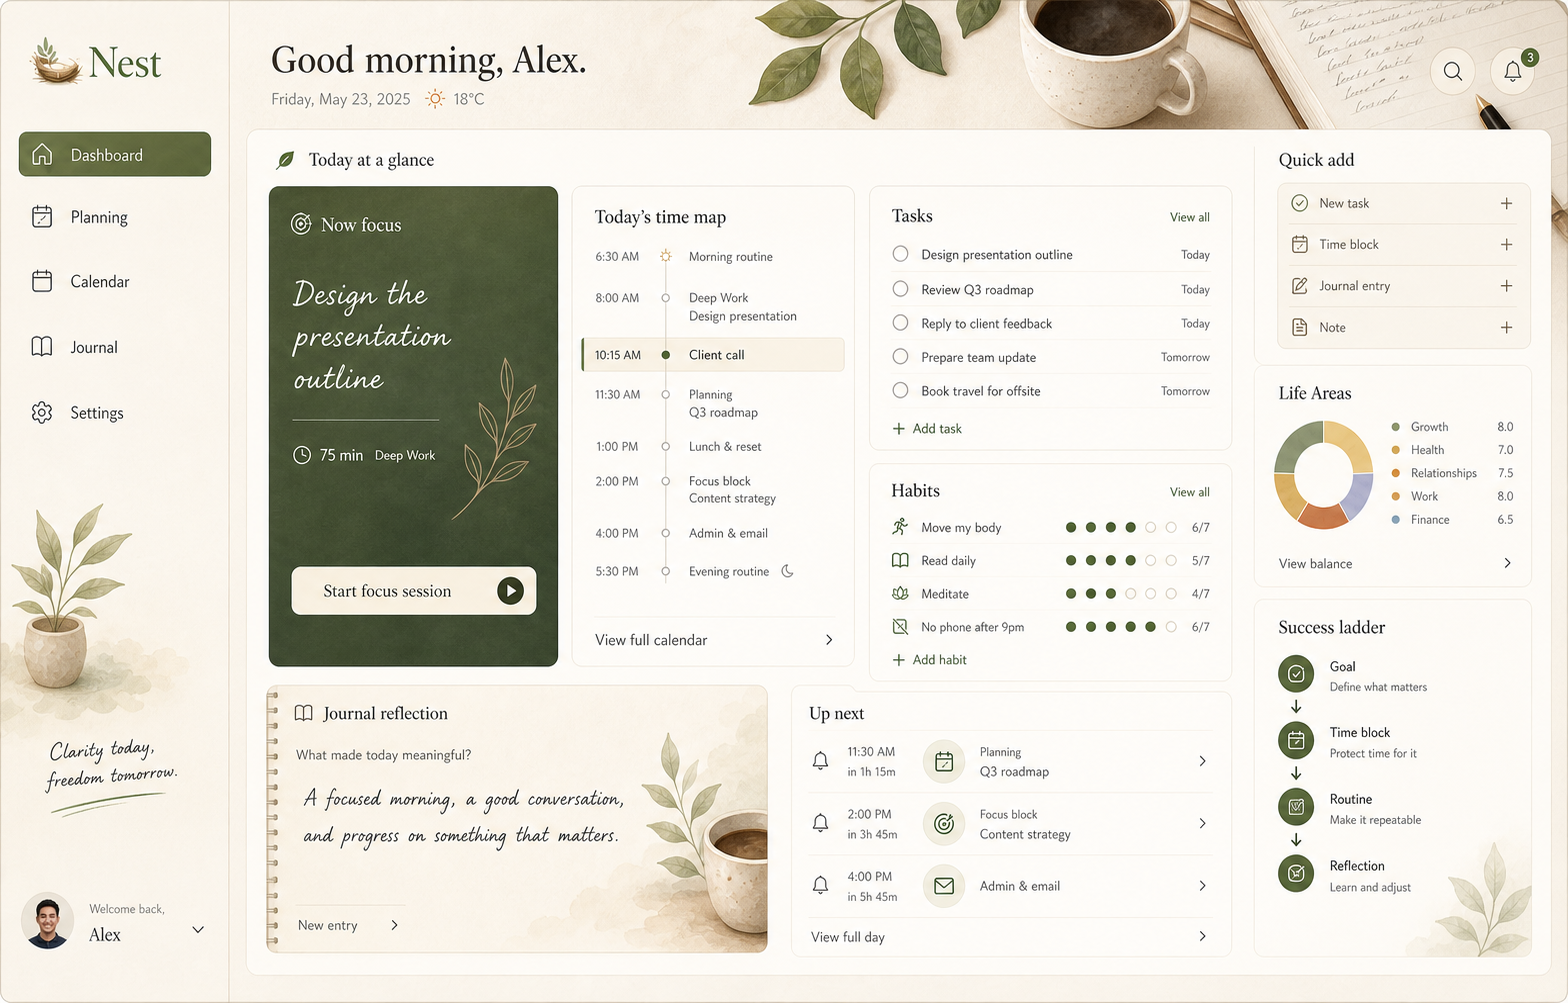
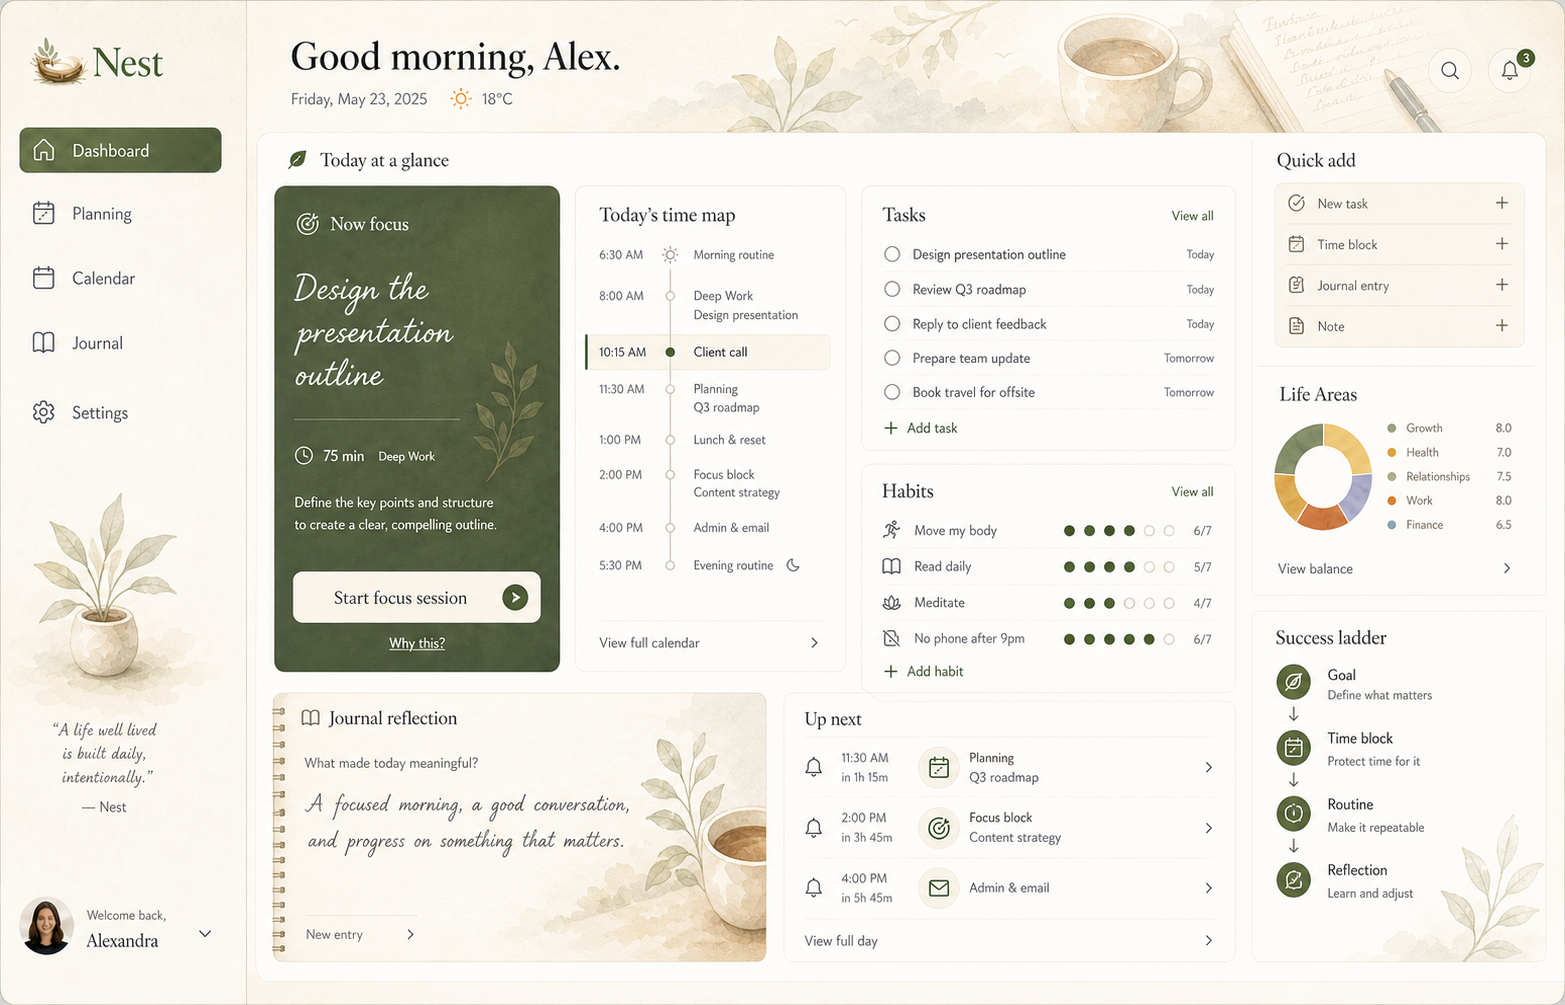
docs: refine dashboard desktop header art

diff --git a/docs/ux/nest_298_dashboard_desktop_header_watercolor_refinement_2026-05-02.md b/docs/ux/nest_298_dashboard_desktop_header_watercolor_refinement_2026-05-02.md
@@ -1,0 +1,56 @@
+# NEST-298 Dashboard Desktop Header Watercolor Refinement
+
+Date: 2026-05-02
+Stage: release
+Owner: Execution Agent
+
+## Context
+
+The corrected Dashboard desktop preview had the right layout, but the header
+art still felt too photographic. The user asked to preserve the composition and
+make the header/background image more delicate, closer to the supplied desktop
+Dashboard reference.
+
+## Goal
+
+Refine only the Dashboard desktop canonical preview so the top material strip
+uses a softer watercolor and paper-collage treatment while retaining the
+approved layout and `Nest` branding.
+
+## Scope
+
+- Replace the desktop Dashboard canonical image artifact.
+- Preserve the selected mobile single-column preview.
+- Record the header-art rule in UX memory.
+- Do not change runtime implementation code.
+
+## Acceptance Criteria
+
+- Desktop layout remains unchanged from the approved reference structure.
+- Top header art feels delicate, low-contrast, watercolor-like, and blended
+  into warm paper.
+- Product branding remains `Nest`.
+- No extra top-level navigation items are introduced.
+
+## Definition Of Done
+
+- Updated desktop artifact is saved at
+  `docs/ux_canonical_artifacts/2026-05-02/nest-dashboard-canonical-ia-desktop-2026-05-02.png`.
+- UX memory records the header-art refinement.
+- Visual inspection confirms the header is no longer photograph-heavy.
+- `git diff --check` passes.
+
+## Result Report
+
+Updated artifact:
+
+- `docs/ux_canonical_artifacts/2026-05-02/nest-dashboard-canonical-ia-desktop-2026-05-02.png`
+
+The desktop preview now preserves the approved dashboard composition while
+softening the top material strip into pale watercolor paper art with subtle
+leaves, coffee, notebook, and pen details.
+
+Validation:
+
+- Visual inspection of regenerated desktop preview.
+- `git diff --check`.

diff --git a/.codex/context/PROJECT_STATE.md b/.codex/context/PROJECT_STATE.md
@@ -25,6 +25,14 @@ Last updated: 2026-05-02
 
 ## Recent Execution Updates
 
+- 2026-05-02: Completed `NEST-298` Dashboard desktop header watercolor
+  refinement. The Dashboard desktop canonical preview was regenerated again to
+  preserve the approved reference layout while making the top material strip
+  more delicate, watercolor-like, low-contrast, and blended into the warm paper
+  surface. The selected mobile single-column preview remains unchanged.
+  Validation: visual desktop preview inspection and `git diff --check`.
+  Report:
+  `docs/ux/nest_298_dashboard_desktop_header_watercolor_refinement_2026-05-02.md`.
 - 2026-05-02: Completed `NEST-297` Dashboard desktop reference layout
   correction. The Dashboard desktop canonical preview was regenerated to stay
   much closer to the supplied desktop reference while keeping the softer Nest
@@ -2202,6 +2210,6 @@ Last updated: 2026-05-02
 ## Autonomous Iteration State
 - Current iteration:
 - Current operation mode:
-- Last completed iteration: 297
-- Last completed task: NEST-297 Dashboard desktop reference layout correction
+- Last completed iteration: 298
+- Last completed task: NEST-298 Dashboard desktop header watercolor refinement
 - Next required mode: BUILDER

diff --git a/.codex/context/TASK_BOARD.md b/.codex/context/TASK_BOARD.md
@@ -24,6 +24,23 @@ Last updated: 2026-05-02
 
 ## Backlog
 
+- [x] NEST-298 Dashboard desktop header watercolor refinement
+  - Status: DONE
+  - Owner: Execution Agent
+  - Depends on: NEST-297
+  - Done on: 2026-05-02
+  - Priority: P0
+  - Notes:
+    - Regenerated only the Dashboard desktop canonical preview to keep the
+      approved layout while making the top header/material strip softer and
+      more watercolor-like.
+    - Preserved `Nest` branding, five-pillar IA, and the selected mobile
+      single-column preview.
+    - Report:
+      `docs/ux/nest_298_dashboard_desktop_header_watercolor_refinement_2026-05-02.md`.
+    - Validation:
+      visual desktop preview inspection and `git diff --check`.
+
 - [x] NEST-297 Dashboard desktop reference layout correction
   - Status: DONE
   - Owner: Execution Agent

diff --git a/docs/ux/design-memory.md b/docs/ux/design-memory.md
@@ -551,6 +551,11 @@
   column with Quick add, Life Areas, and Success ladder. The selected mobile
   direction remains the single-column phone flow for future web/mobile
   breakpoint implementation.
+- Dashboard desktop header art was refined again on 2026-05-02: keep the same
+  layout, but render the top material strip as pale watercolor and paper
+  collage rather than a sharp photograph. Leaves, coffee, notebook, and pen
+  details should feel low-contrast, hand-painted, and blended into the warm
+  page surface.
 
 ## Finish Propagation Rules (2026-04-26)
 
